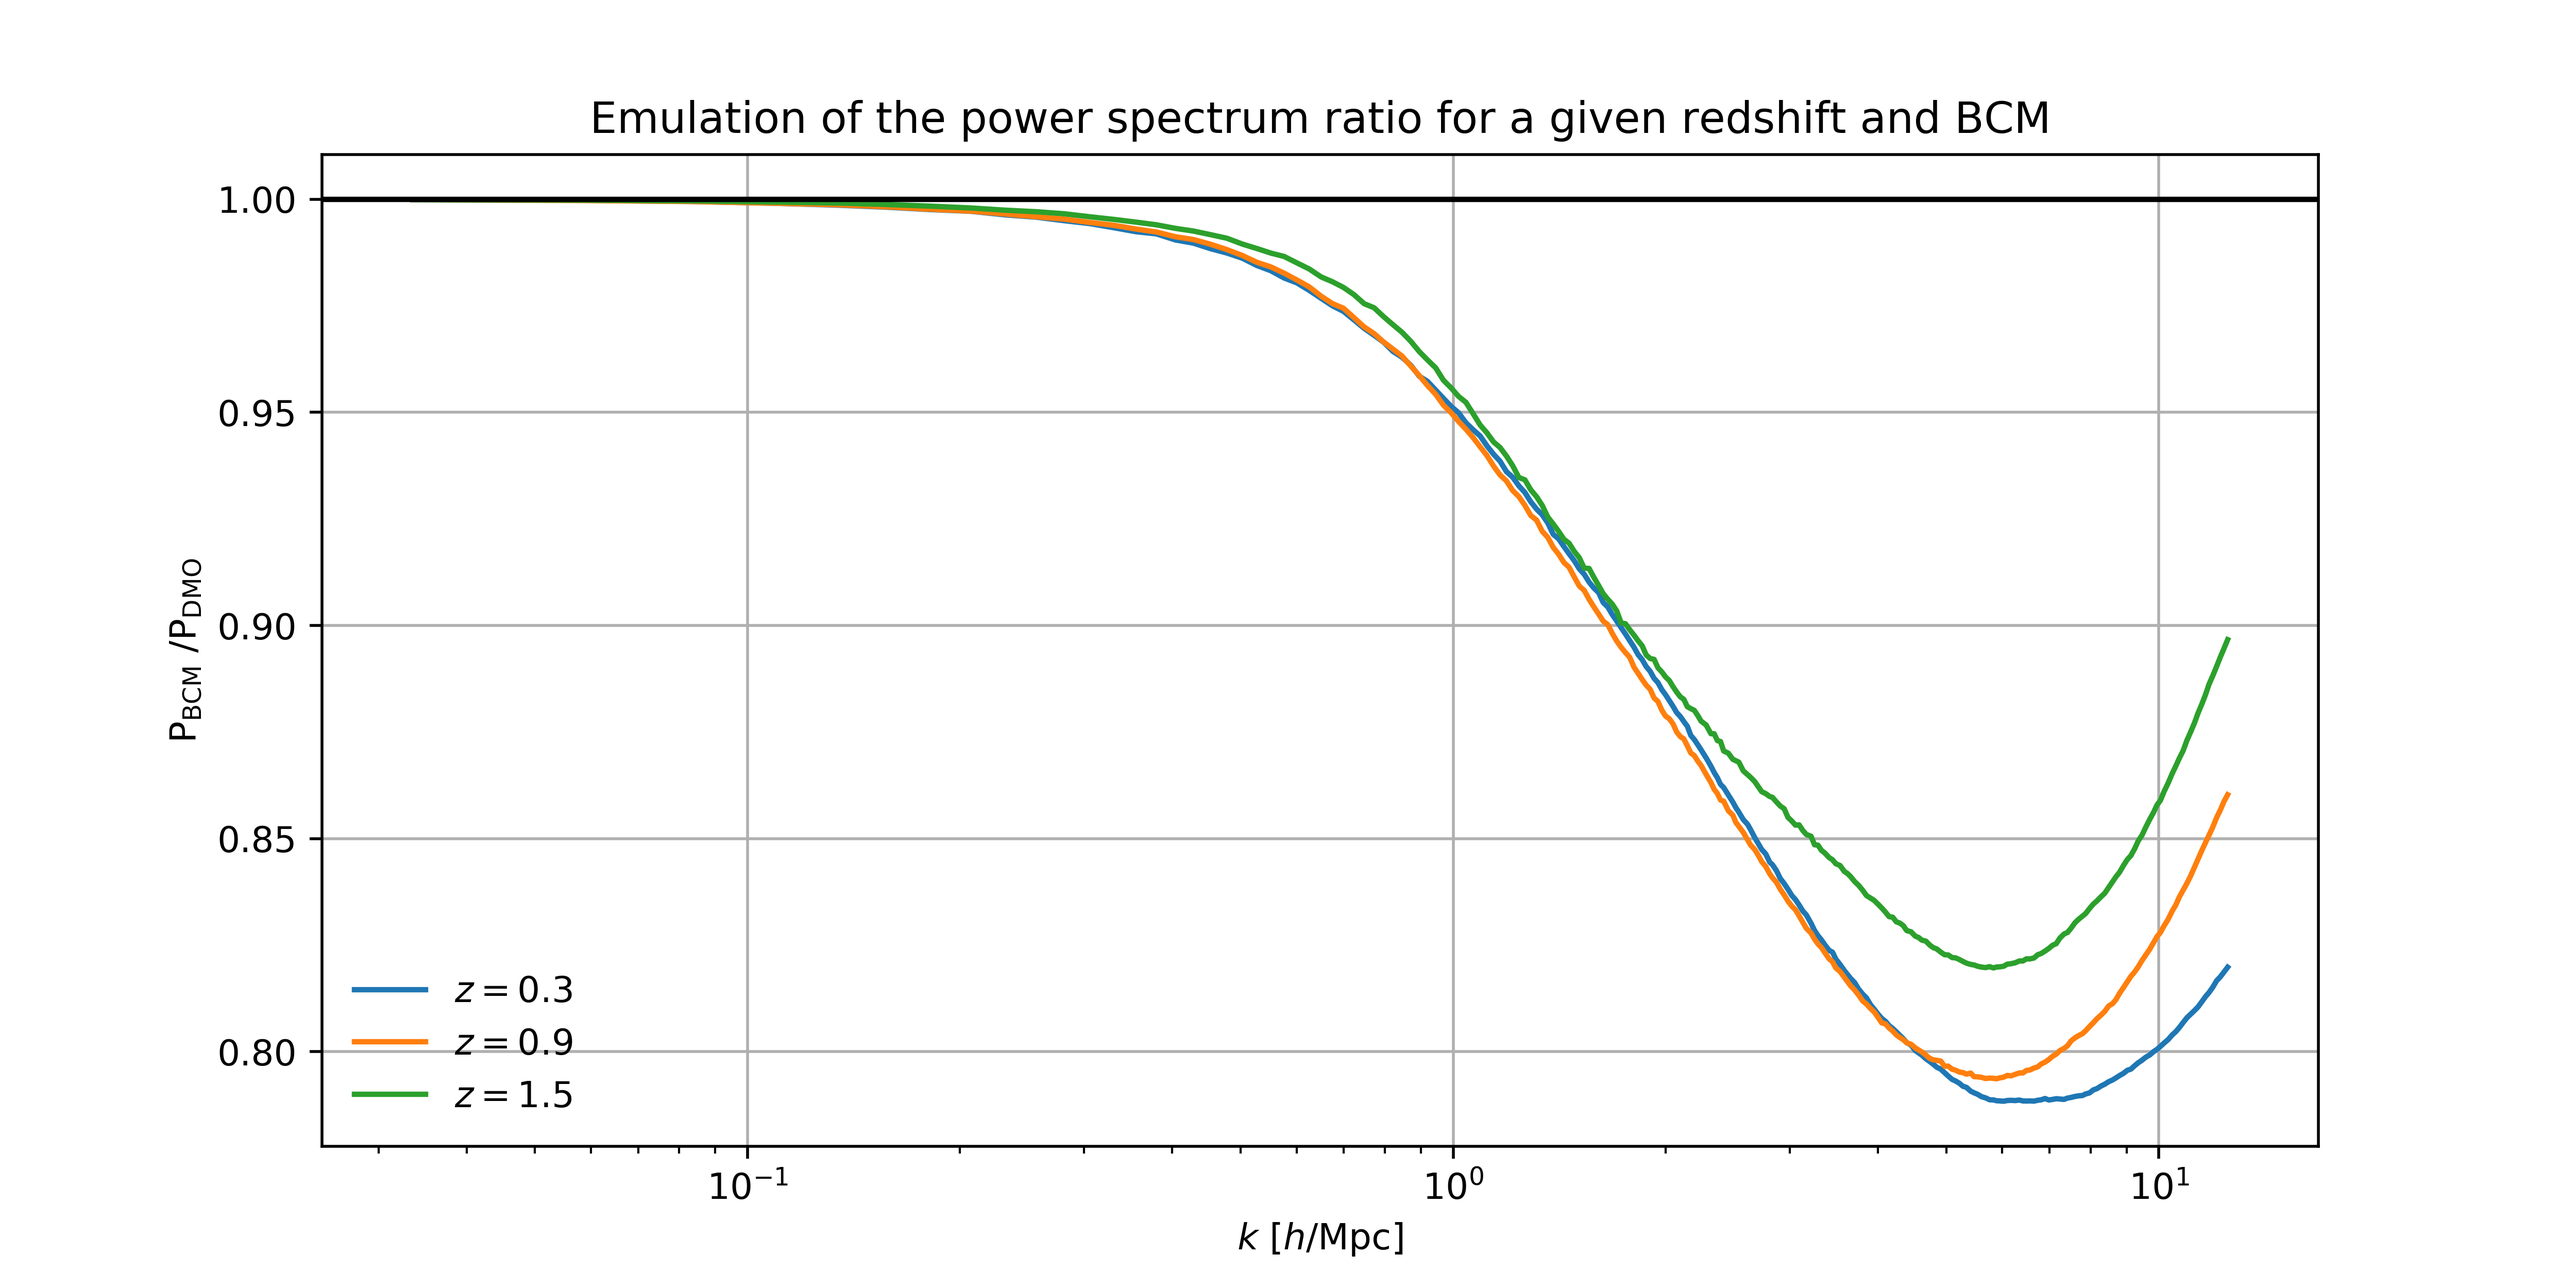
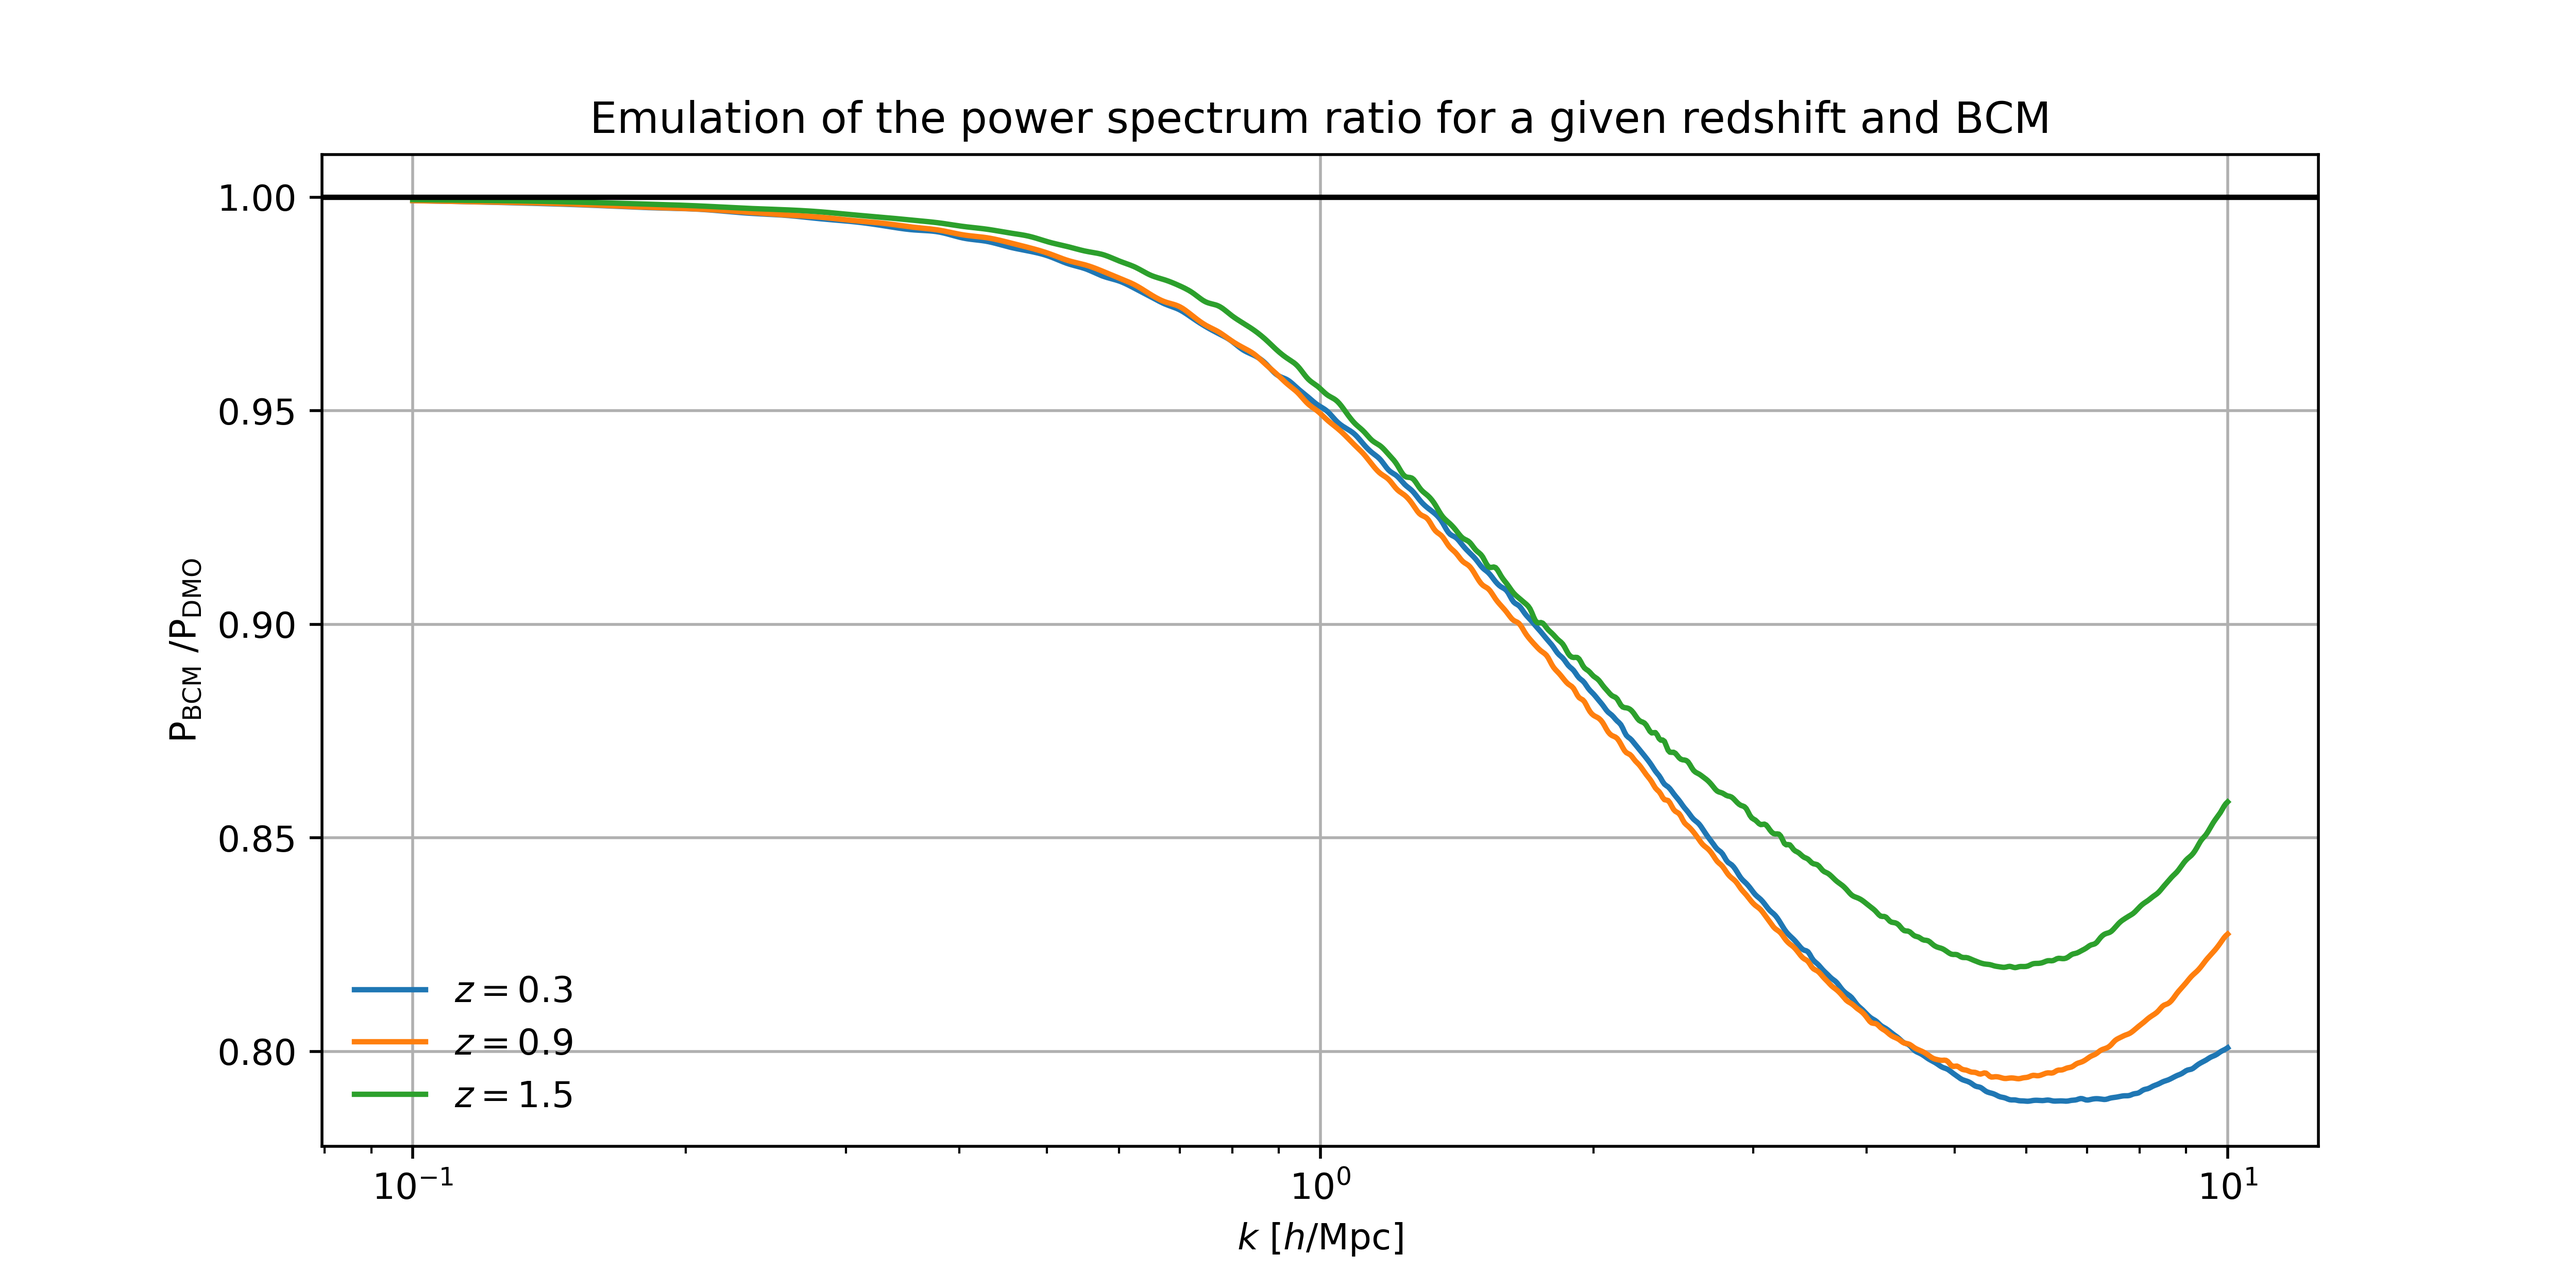
Add files via upload

diff --git a/Examples/example_code.py b/Examples/example_code.py
@@ -9,8 +9,11 @@ MyBCM = {'f_b': 0.14, 'logMc': 14, 'mu': 0.4, 'theta_ej':4.0, 'eta_tot': 0.3, 'e
 #Define input redshifts
 z=[0.3,0.9,1.5]
 
+#Define wavenumbers of evaluation
+keval=np.logspace(-1,1,1000)
+
 #Calculate the boosts
-result=get_boost(z,MyBCM)
+result=get_boost(z,MyBCM,keval)
 
 #Print some results
 print 'k-values: \n'+str(result['k'])+'\n'
